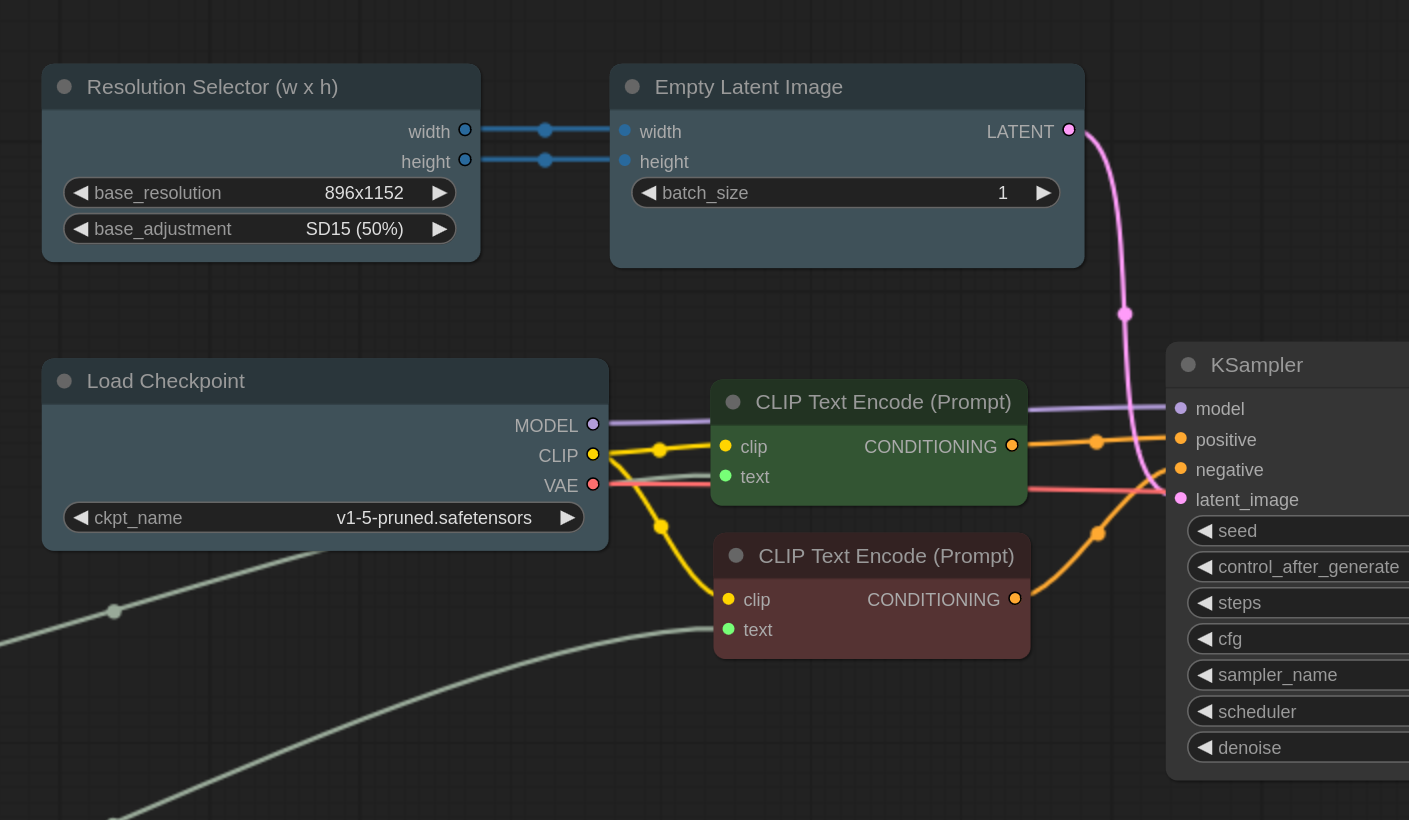
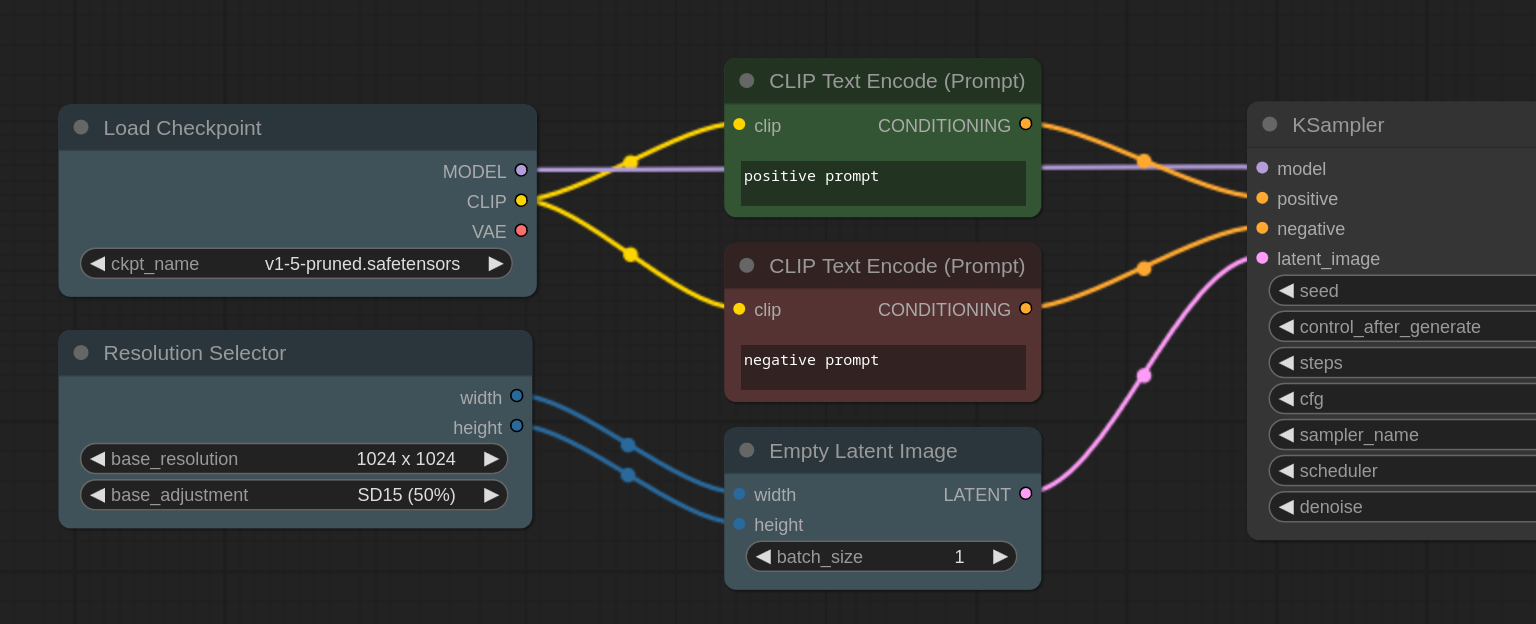
Minor updates

diff --git a/resolution_selector.py b/resolution_selector.py
@@ -1,6 +1,4 @@
-
-# Define resolution presets
-# Resolution list based off what is currently being used in the Fooocus SDXL Web UI (https://github.com/lllyasviel/Fooocus)
+# Resolution presets
 BASE_RESOLUTIONS = [
     (1024, 1024),
     (704, 1408),
@@ -30,26 +28,29 @@ BASE_RESOLUTIONS = [
     (1728, 576)
 ]
 
-# Create a list of resolution strings for the drop-down menu
-resolution_strings = [f"{width}x{height}" for width, height in BASE_RESOLUTIONS]
 
-# Create the custom node class
 class ResolutionSelector:
     """
     A node to provide a drop-down list of resolutions and returns two int values (width and height).
     """
+
     def __init__(self):
         pass
 
     @classmethod
-    def INPUT_TYPES(s):
+    def INPUT_TYPES(cls):
         """
         Return a dictionary which contains config for all input fields.
         """
+
+        # Create a list of resolution strings for the drop-down menu
+        resolution_strings = [
+            f"{width} x {height}" for width, height in BASE_RESOLUTIONS]
+
         return {
             "required": {
                 "base_resolution": (resolution_strings,),
-                "base_adjustment": (["SDXL (None)", "SD21 (75%)", "SD15 (50%)"],)
+                "base_adjustment": (["SDXL (None)", "SD21 (75%)", "SD15 (50%)"],),
             }
         }
 
@@ -58,24 +59,24 @@ class ResolutionSelector:
     FUNCTION = "select_resolution"
     CATEGORY = 'utils'
 
-    @staticmethod
-    def select_resolution(base_resolution, base_adjustment):
+    def select_resolution(self, base_resolution, base_adjustment):
         """
         Returns the width and height based on the selected resolution and adjustment.
 
         Args:
-            base_resolution (str): Selected resolution in the format "widthxheight".
-            base_adjustment (str): Selected adjustment (resolution values reduction) based on Stable Diffusion version.
+            base_resolution (str): Selected resolution in the format "width x height".
+            base_adjustment (str): Selected adjustment (resolution value reduction) based on SD version.
 
         Returns:
             Tuple[int, int]: Adjusted width and height.
         """
         try:
-            width, height = map(int, base_resolution.split('x'))
+            width, height = map(int, base_resolution.split(' x '))
         except ValueError:
             raise ValueError("Invalid base_resolution format.")
 
-        adjustment_factors = {"SDXL (None)": 1, "SD21 (75%)": 0.75, "SD15 (50%)": 0.5}
+        adjustment_factors = {
+            "SDXL (None)": 1, "SD21 (75%)": 0.75, "SD15 (50%)": 0.5}
         factor = adjustment_factors.get(base_adjustment)
 
         if factor is None:
@@ -86,10 +87,11 @@ class ResolutionSelector:
 
         return width, height
 
+
 NODE_CLASS_MAPPINGS = {
     "ResolutionSelector": ResolutionSelector,
 }
 
 NODE_DISPLAY_NAME_MAPPINGS = {
-    "ResolutionSelector": "Resolution Selector (w x h)",
+    "ResolutionSelector": "Resolution Selector",
 }

diff --git a/README.md b/README.md
@@ -32,9 +32,9 @@ git clone https://github.com/bradsec/ComfyUI_ResolutionSelector.git
 ```
 
 ### Usage after install
-`Add Node > utils > Resolution Selector (w x h)`  
+`Add Node > utils > Resolution Selector`  
   
-![node_example](resolutionselector_node.png)
+![node_example](resolution_selector_node.png)
 
 #### SDXL hookup example
 ![sdxl_hookup](sdxl_hookup.png)
